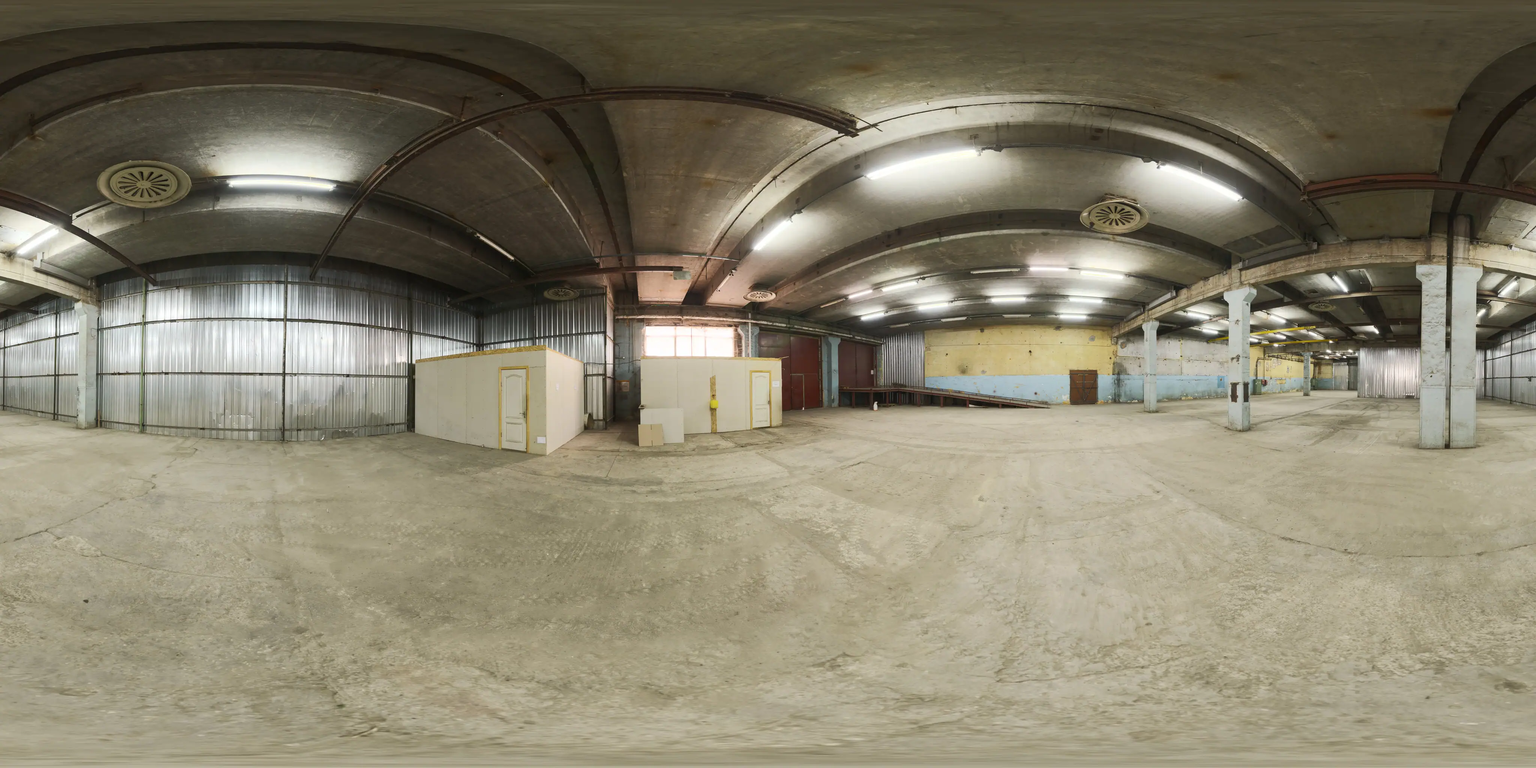
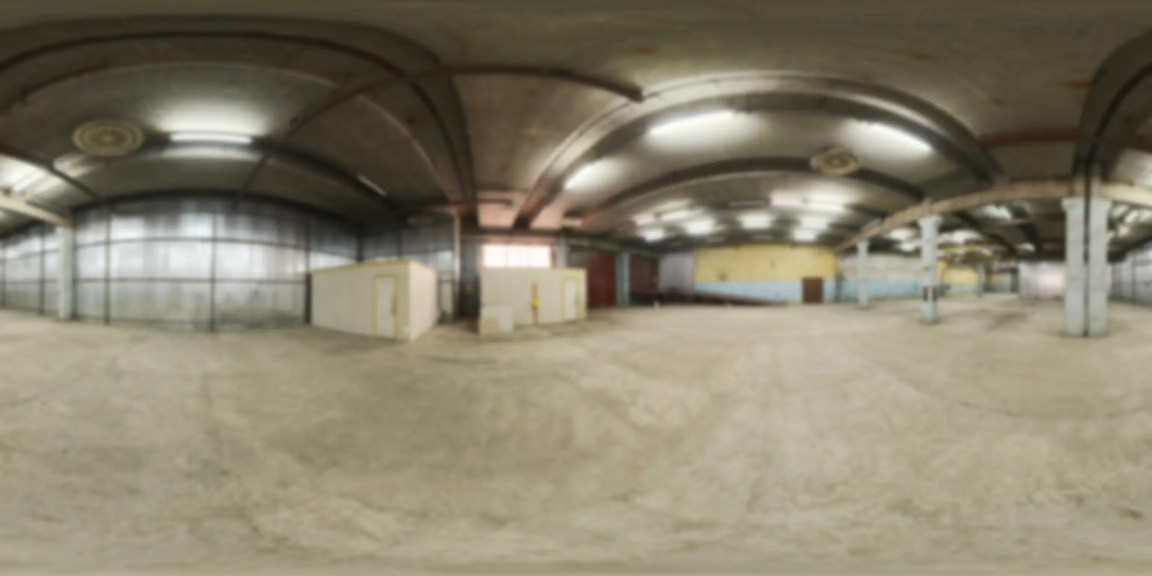
ffixes

diff --git a/src/components/landing/Scene.js b/src/components/landing/Scene.js
@@ -136,7 +136,7 @@ function makeBracket() {
     for (let i = 0; i < 3200; i++) { x.fillStyle = `rgba(${Math.random() < 0.5 ? "255,255,255" : "0,0,0"}, 0.09)`; x.fillRect(Math.random() * w, Math.random() * h, 30 + Math.random() * 220, 1); }
   });
   const rough = new THREE.CanvasTexture(noise);
-  const steel = new THREE.MeshStandardMaterial({ color: "#b9bdc0", metalness: 1, roughness: 0.56, roughnessMap: rough, envMapIntensity: 1.3 });
+  const steel = new THREE.MeshStandardMaterial({ color: "#8d9195", metalness: 1, roughness: 0.46, roughnessMap: rough, envMapIntensity: 1.3 });
   const plate = new THREE.ExtrudeGeometry(bracketShape(0.11, 0.058), { depth: 0.0045, bevelEnabled: true, bevelThickness: 0.0006, bevelSize: 0.0006, bevelSegments: 2, curveSegments: 16 });
   plate.rotateX(-Math.PI / 2);
   const g = new THREE.Group(), base = new THREE.Mesh(plate, steel), wall = new THREE.Mesh(plate, steel);
@@ -288,6 +288,11 @@ function Film({ live, mobile, maxDpr }) {
       floor.position.set(-0.6, 0.002, 0);
       floor.receiveShadow = true;
       world.add(floor);
+      const forecourt = new THREE.Mesh(new THREE.PlaneGeometry(34, 26), new THREE.MeshStandardMaterial({ color: "#b9b4aa", map: diff, normalMap: nor, roughnessMap: rough, roughness: 1, envMapIntensity: 0.8 }));
+      forecourt.rotation.x = -Math.PI / 2;
+      forecourt.position.set(STREET.x, 0.002, 10.8);
+      forecourt.receiveShadow = true;
+      world.add(forecourt);
 
       const [shelves, truck, register, clipboard, chest, cart, tyre, pump, shutter, yard, desk2, fan, lamp, brickD, brickN, brickR] = await Promise.all([
         load("steel_frame_shelves_01"), load("hand_truck"), load("CashRegister_01"), load("clipboard"), load("metal_tool_chest"), load("tool_cart"), load("old_tyre"), load("tire_pump"),
@@ -329,11 +334,11 @@ function Film({ live, mobile, maxDpr }) {
 
       // The till, for the end of the day.
       world.add(place(desk2, TILL.x, 0, 0));
-      s.register = place(register, TILL.x - 0.1, DESK.top, 0.02, 0.24);
+      s.register = place(register, TILL.x + 0.66, DESK.top, 0.02, 0.16);
       s.drawer = part(register, "_drawer");
       s.drawerZ = s.drawer?.position.z ?? 0;
       world.add(s.register);
-      world.add(place(chest, TILL.x + 1.5, 0, -0.1, -0.4));
+      world.add(place(chest, TILL.x + 2.2, 0, -0.4, -0.4));
 
       // The Motor Shop: a brick front, a shutter, a sign, and the tools of the trade outside.
       const street = new THREE.Group();
@@ -377,11 +382,6 @@ function Film({ live, mobile, maxDpr }) {
       s.door.add(stamp);
       s.stamp = stamp;
       world.add(street);
-      const catcher = new THREE.Mesh(new THREE.PlaneGeometry(26, 26), new THREE.ShadowMaterial({ opacity: 0.42 }));
-      catcher.rotation.x = -Math.PI / 2;
-      catcher.position.set(STREET.x, 0.003, 2);
-      catcher.receiveShadow = true;
-      world.add(catcher);
       s.yard = yard;
       yard.sky.visible = false;
       world.add(yard.sky);

diff --git a/src/components/landing/world.js b/src/components/landing/world.js
@@ -13,14 +13,14 @@ export const TILL = { x: -5 };
 // film cuts where the product changes place.
 export const SHOTS = [
   { eye: [-0.3, 1.5, 3.5], aim: [-1.05, 0.86, 0] },     // the workshop, beside the headline
-  { eye: [-0.1, 1.22, 0.95], aim: [-0.46, 1, 0] },      // production: the bracket under the drill
+  { eye: [-0.2, 1.3, 0.62], aim: [-0.42, 1.02, 0.02] },      // production: the bracket under the drill
   { eye: [3.5, 1.55, 3.3], aim: [3.2, 1.05, -0.5] },    // stock: on the shelves
   { eye: [3.2, 1.28, 1], aim: [3.2, 1.05, -0.55] },     // order: held
   { eye: [2.5, 1.05, 3.2], aim: [3.7, 0.72, 0.8] },     // dispatch: on the hand truck
-  { eye: [29, 1.7, 6.6], aim: [30, 1.62, -1] },         // delivery: at the customer's door
+  { eye: [29.8, 1.7, 7.6], aim: [30.9, 1.62, -1] },         // delivery: at the customer's door
   { eye: [29.45, 1.25, 1], aim: [29.3, 0.36, -0.36] },  // invoice
   { eye: [29.42, 1.1, 0.72], aim: [29.28, 0.38, -0.36] },   // payment
-  { eye: [-4.15, 1.42, 2.3], aim: [-4.85, 1.02, 0] },   // daily cash: the till
+  { eye: [-3.8, 1.5, 2.1], aim: [-4.2, 1.06, 0] },   // daily cash: the till
 ];
 
 // Scroll positions where the film cuts rather than moves.

diff --git a/README.md b/README.md
@@ -54,7 +54,7 @@ Always run the production build for real use (`npm run build && npm start`): `np
 
 `/` shows the marketing site to visitors and the dashboard to signed-in people; `/mr` is the Marathi version, plus seven capability pages. Copy lives in `src/components/landing/content.js` and `seo-pages.js`. Only list a feature as available once it exists. Demo requests appear at `/enquiries` for company 1. In production set `SITE_URL` (the real address, used for canonical links and the sitemap) and `CONTACT_PHONE` (with country code) and/or `CONTACT_EMAIL` for the contact section.
 
-The opening follows one product from production to the money: one bracket is pressed, boxed, racked, ordered, loaded, delivered, invoiced and paid for as you scroll, while one R.K. record fills in beside it. `src/components/landing/Scene.js` builds the line, `surroundings.js` the hall and street around it, `kit.js` holds the shared helpers and `world.js` the layout and camera shots. Everything on screen is worked out from `s`, the place in the journey, and all textures are painted in the browser, so there are no model files. Clicking a row in the record jumps to that step, and dragging the scene turns the view. Reduced motion, slow or data-saving connections, low-memory phones and browsers without WebGL2 get `public/line.webp` and the steps as a plain list. If the look changes, retake that picture from the opening shot.
+The opening follows one product from production to the money: one bracket is drilled, boxed, shelved, held for an order, wheeled out, delivered, invoiced and paid for as you scroll, while one R.K. record fills in beside it. `src/components/landing/Scene.js` is the film and `world.js` holds its camera shots and cuts. Everything on screen is worked out from `s`, the place in the journey. The panoramas, scanned surfaces and 3D models in `public/shop/` come from Poly Haven (CC0, no attribution needed) and were resized and converted to WebP. Clicking a row in the record jumps to that step, and dragging the scene turns the view. Reduced motion, slow or data-saving connections, low-memory phones and browsers without WebGL2 get `public/line.webp` and the steps as a plain list. If the look changes, retake that picture from the opening shot.
 
 ## Companies and billing
 
